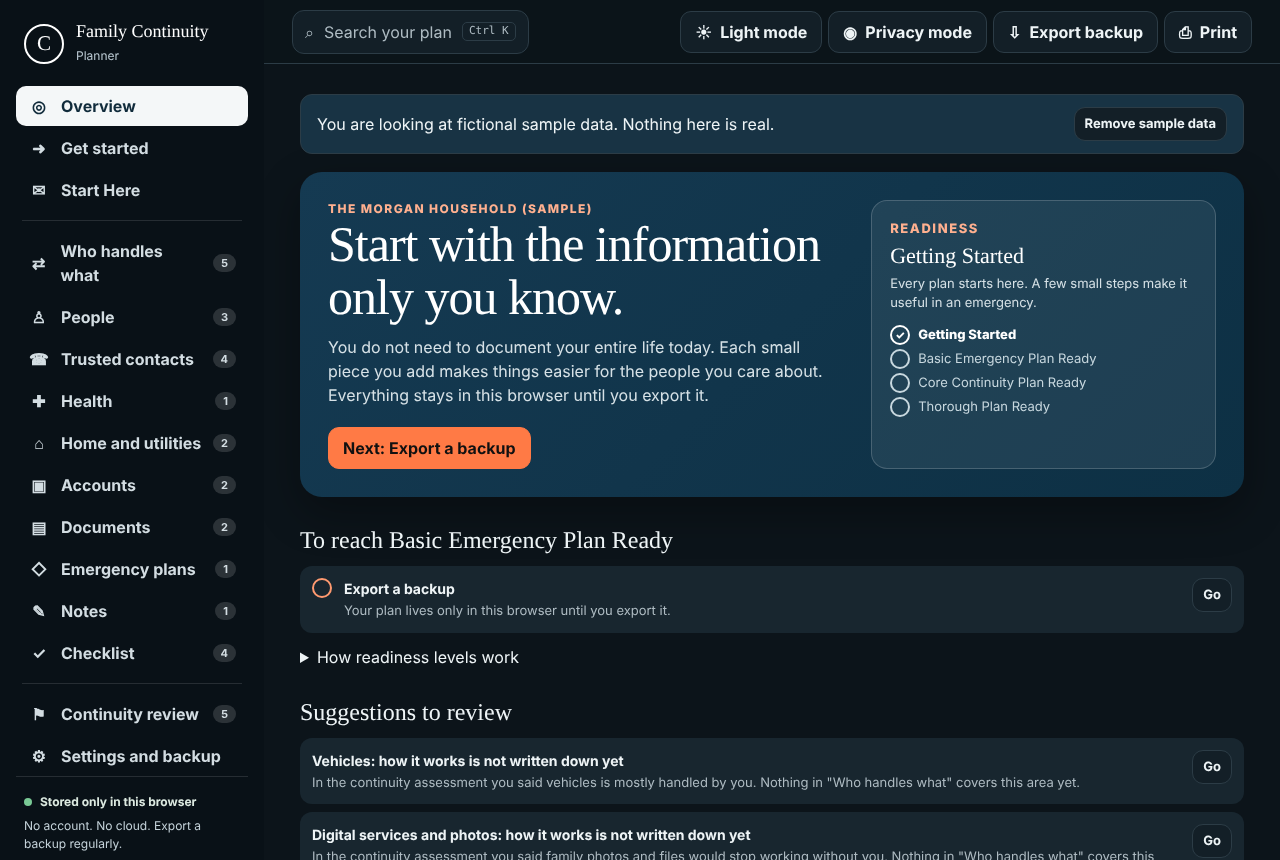
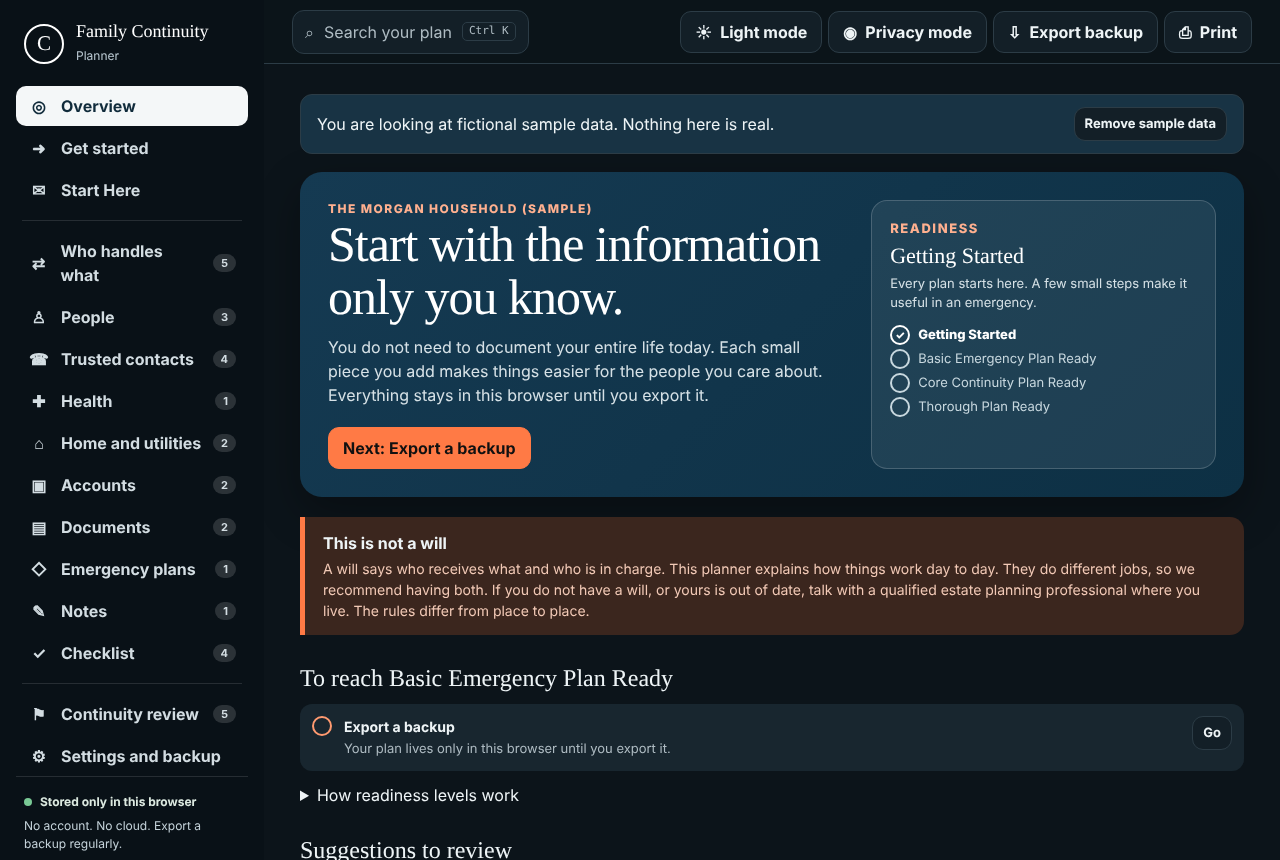
Add a clear "This is not a will" notice and recommend having one
Shown on the Overview, in Get started, in Documents, on the printed
cover, in the README, and in the release START-HERE guide. Also:
release workflow can publish directly and replaces stale drafts; the
accessibility test no longer reloads mid-test; documented a Chrome
file:// storage issue found while stress-testing.

Claude-Session: https://claude.ai/code/session_01NZDqcFxWWaqixxy1av1D4J

diff --git a/src/ui/views/getStarted.ts b/src/ui/views/getStarted.ts
@@ -7,7 +7,7 @@ import { recommend, type Recommendation } from '../../core/recommend';
 import { AREA_IDS, AREA_LABELS, SECTIONS } from '../../core/sections';
 import { h } from '../dom';
 import { getPlan, go, mutate } from '../store';
-import { button, viewHead } from './common';
+import { WILL_NOTICE, button, viewHead } from './common';
 
 const STEPS = ['Why this matters', 'Who handles what', 'What would stop', 'Where to start'] as const;
 const HANDLER_LABELS: Record<AreaHandler, string> = {
@@ -23,6 +23,7 @@ function stepWhy(): HTMLElement {
     h('p', null, h('strong', null, 'You do not need to document your entire life today. Start with the information only you know.')),
     h('p', null, 'Most estate planning focuses on what you own. This planner focuses on what you know: how the bills get paid, who fixes the furnace, where the important papers are, and the hundred small routines that keep a household running.'),
     h('p', null, 'If you were suddenly unavailable, the people you care about would have to work all of that out at the hardest possible time. A few written pages can spare them a lot of stress, confusion, and unnecessary work.'),
+    h('p', null, h('strong', null, `${WILL_NOTICE.title}. `), WILL_NOTICE.body),
     h('p', null, 'The next two steps take about five minutes. They help find where your family depends on you most, so you can start there. Every question is optional and you can change your answers later.'),
   );
 }

diff --git a/tests/e2e/backup-print-a11y.spec.ts b/tests/e2e/backup-print-a11y.spec.ts
@@ -163,10 +163,16 @@ const VIEWS = ['Overview', 'Get started', 'Start Here', 'Who handles what', 'Peo
 
 for (const theme of ['light', 'dark'] as const) {
   test(`no automatically detectable accessibility violations (${theme})`, async ({ app }) => {
-    await app.evaluate((t) => localStorage.setItem('familyContinuityPlanner.theme', t), theme);
+    // Nine full axe scans plus a dialog; allow time on slower CI machines.
+    test.setTimeout(120_000);
+    // Set the theme before the page's own scripts run, then load sample data without reloading,
+    // so no test step races Chromium's asynchronous localStorage commit.
+    await app.addInitScript((t) => localStorage.setItem('familyContinuityPlanner.theme', t), theme);
+    await app.reload();
+    expect(await app.evaluate(() => document.documentElement.dataset.theme)).toBe(theme);
     await nav(app, 'Settings and backup');
     await app.getByRole('button', { name: 'Load sample data' }).click();
-    await app.reload();
+    await expect(app.getByText('You are looking at fictional sample data')).toBeVisible();
     const results: string[] = [];
     for (const v of VIEWS) {
       await nav(app, v);

diff --git a/tests/e2e/core.spec.ts b/tests/e2e/core.spec.ts
@@ -221,3 +221,16 @@ test('sample data: load, identify, remove; erase everything', async ({ app }) =>
   await expect.poll(async () => (await storedPlan(app)).records.people.length).toBe(0);
   await expect(app.getByText('All plan data was erased from this browser.')).toBeVisible();
 });
+
+test('the "not a will" notice appears on the overview, in Get started, in Documents, and in print', async ({ app }) => {
+  const notice = app.getByRole('complementary', { name: 'This is not a will' });
+  await expect(notice).toBeVisible();
+  await expect(notice).toContainText('we recommend having both');
+  await nav(app, 'Get started');
+  await expect(app.getByText(/This is not a will\./)).toBeVisible();
+  await nav(app, 'Documents');
+  await expect(app.locator('.callout').filter({ hasText: 'Start with your will' })).toContainText('we recommend getting one');
+  await app.getByRole('button', { name: 'Print' }).first().click();
+  await app.getByRole('dialog').getByRole('button', { name: 'Print' }).click();
+  await expect.poll(() => app.locator('#print-packet').evaluate((n) => n.textContent ?? '')).toContain('This is not a will.');
+});

diff --git a/src/ui/views/common.ts b/src/ui/views/common.ts
@@ -14,6 +14,19 @@ export function viewHead(opts: { eyebrow: string; title: string; description?: C
   );
 }
 
+export const WILL_NOTICE = {
+  title: 'This is not a will',
+  body: 'A will says who receives what and who is in charge. This planner explains how things work day to day. They do different jobs, so we recommend having both. If you do not have a will, or yours is out of date, talk with a qualified estate planning professional where you live. The rules differ from place to place.',
+};
+
+/** Calm, visible reminder that the planner works alongside a will and does not replace one. */
+export function willNotice(): HTMLElement {
+  return h('aside', { class: 'callout will-notice', attrs: { 'aria-labelledby': 'will-notice-h' } },
+    h('strong', { attrs: { id: 'will-notice-h' } }, WILL_NOTICE.title),
+    h('p', null, WILL_NOTICE.body),
+  );
+}
+
 export function goTarget(t: Target): void {
   if (t.view === 'section') {
     go({ name: 'section', section: t.section });

diff --git a/src/ui/print.ts b/src/ui/print.ts
@@ -70,7 +70,7 @@ export function buildPacket(plan: Plan, opts: PacketOptions): HTMLElement {
         h('div', { class: 'pk-note' },
           h('p', null, h('strong', null, 'Check that this is current. '), 'Details change. If something looks out of date, confirm it with a trusted contact before acting on it.'),
           h('p', null, h('strong', null, 'Keep this private. '), opts.includePrivate ? 'This copy includes private details. Store it somewhere secure and shred old copies.' : 'Private details were left out of this copy. Store it somewhere secure and shred old copies.'),
-          h('p', null, 'This is guidance, not a will or legal document.'),
+          h('p', null, h('strong', null, 'This is not a will. '), 'It is practical guidance, not a legal document. If there is a will or other legal paperwork, it takes priority over anything written here.'),
         ),
       ));
     } else if (part === 'start-here') {

diff --git a/src/core/sections.ts b/src/core/sections.ts
@@ -207,6 +207,10 @@ export const SECTIONS: Record<SectionId, SectionDef> = {
     titleField: 'name',
     subtitleField: 'category',
     filterField: 'category',
+    callout: {
+      title: 'Start with your will',
+      body: 'Record where your will is kept and who prepared it, along with any power of attorney or healthcare directive. This planner does not replace those documents. If you do not have a will yet, we recommend getting one from a qualified professional where you live.',
+    },
     fields: [
       { key: 'name', label: 'Document', required: true, wide: true },
       { key: 'category', label: 'Category', type: 'select', options: ['Identity', 'Legal', 'Financial', 'Insurance', 'Property', 'Medical', 'Other'] },

diff --git a/src/ui/views/dashboard.ts b/src/ui/views/dashboard.ts
@@ -4,7 +4,7 @@ import { SECTIONS, SECTION_IDS } from '../../core/sections';
 import { h } from '../dom';
 import { exportBackup } from '../backupFlow';
 import { getPlan, go } from '../store';
-import { button, goTarget } from './common';
+import { button, goTarget, willNotice } from './common';
 
 export function dashboardView(): HTMLElement {
   const plan = getPlan();
@@ -79,5 +79,7 @@ export function dashboardView(): HTMLElement {
     )
     : null;
 
-  return h('div', null, hero, nextList, findings, map);
+  const will = willNotice();
+  will.style.setProperty('margin-top', '20px');
+  return h('div', null, hero, will, nextList, findings, map);
 }

diff --git a/playwright.config.ts b/playwright.config.ts
@@ -10,6 +10,8 @@ export default defineConfig({
   testDir: 'tests/e2e',
   fullyParallel: true,
   forbidOnly: !!process.env.CI,
+  // One retry in CI. Chromium occasionally loses a localStorage write made just before
+  // reloading a page opened from disk (file://); see README Limitations and IMPORT_ISSUES.md.
   retries: process.env.CI ? 1 : 0,
   reporter: process.env.CI ? [['list'], ['html', { open: 'never' }]] : 'list',
   use: {

diff --git a/README.md b/README.md
@@ -19,6 +19,8 @@ When someone who quietly runs a household dies, becomes seriously ill, or simply
 
 A will says who gets what. This planner helps write down **how things work**, so the family can keep functioning.
 
+> **This is not a will.** Family Continuity Planner works alongside a will; it does not replace one. If you do not have a will, or yours is out of date, we recommend having one prepared with a qualified estate planning professional where you live. Laws differ from place to place.
+
 ## Who it is for
 
 Anyone who wants to make things easier for the people they would leave behind: single people, couples, parents, people without children, caregivers, adult children helping parents, blended families, pet owners, homeowners and renters, small business owners, and anyone whose technology or paperwork only they understand. It does not assume a family structure, country, religion, or financial situation.
@@ -85,7 +87,7 @@ Click **Print**. Choose whether to include private details (off by default), the
 
 ## Frequently asked questions
 
-**Is this a will?** No. It is an organizational and knowledge-transfer tool. Legal documents take priority over anything in it.
+**Is this a will?** No. It is an organizational and knowledge-transfer tool, and a will or other legal documents take priority over anything in it. We recommend having both: a will for who receives what and who is in charge, and this planner for how everything actually works. A qualified professional where you live can help with the will, and you can record where it is kept in the Documents section.
 
 **Should I store passwords in it?** No. Record which password manager you use, how a trusted person can get emergency access, and where recovery documents are kept. The review page flags text that looks like a password or card number.
 
@@ -104,6 +106,7 @@ Click **Print**. Choose whether to include private details (off by default), the
 - Data lives in one browser on one device. There is no sync, by design.
 - Nothing is encrypted, at rest or in backups.
 - Clearing browser data for the file or site erases the plan. Keep backups.
+- In automated tests, Chrome occasionally (about 2 to 7 percent of tries, on a heavily loaded test machine) failed to keep a save made just before the page was reloaded, but only when the app was opened as a file from disk, never over the web. This has not been confirmed on an ordinary desktop yet and is being investigated. Until then: pause a moment after saving before closing or reloading, and export backups regularly.
 - Readiness levels and review suggestions are simple, documented rules. They cannot know what is missing from your life; they never mean a plan is "complete."
 - Printing is designed for US Letter. A4 printing works but is not specifically tuned.
 - Tested in Chromium-based browsers. Firefox and Safari are expected to work but are not yet covered by automated tests.
@@ -147,4 +150,4 @@ The software is released under the [MIT License](LICENSE). The license covers th
 
 ## Disclaimer
 
-Family Continuity Planner is an organizational and knowledge-transfer tool. It is not a will and does not replace estate planning. It is not legal, financial, or medical advice, and it does not replace advice from an attorney, accountant, financial professional, healthcare professional, or other qualified professional. It is provided as is, without warranty.
+Family Continuity Planner is an organizational and knowledge-transfer tool. It is not a will and does not replace estate planning. We recommend using it alongside a will and any other estate documents that fit your situation, prepared with a qualified professional where you live. It is not legal, financial, or medical advice, and it does not replace advice from an attorney, accountant, financial professional, healthcare professional, or other qualified professional. It is provided as is, without warranty.

diff --git a/docs/releasing.md b/docs/releasing.md
@@ -6,7 +6,7 @@
 4. Run `npm run check` and `npm run release` locally. Open `release/Family-Continuity-Planner-vX.Y.Z.html` from disk and try: sample data, export, restore, print preview.
 5. Work through [PUBLIC_RELEASE_CHECKLIST.md](../PUBLIC_RELEASE_CHECKLIST.md) for the first public release, and its "every release" section after that.
 6. Commit and push to `main`.
-7. Open the **Actions** tab, choose **Release**, and click **Run workflow** on `main` (or push a matching tag such as `vX.Y.Z`). The workflow runs every check, builds the files, and creates a **draft** GitHub Release with the `.html`, `.zip`, and `SHA256SUMS.txt`. The tag is created when the draft is published.
+7. Open the **Actions** tab, choose **Release**, and click **Run workflow** on `main` (or push a matching tag such as `vX.Y.Z`). The workflow runs every check, builds the files, and creates a **draft** GitHub Release with the `.html`, `.zip`, and `SHA256SUMS.txt`. The tag is created when the draft is published. Tick **Publish immediately** to skip the draft. Re-running for the same version replaces any unpublished draft.
 8. Review the draft: download the zip, extract it, open the HTML, and compare checksums (`sha256sum -c SHA256SUMS.txt`, or `Get-FileHash` on Windows). Then publish.
 
 ## What users get

diff --git a/IMPORT_ISSUES.md b/IMPORT_ISSUES.md
@@ -2,6 +2,12 @@
 
 Create these after the repository is public. Each has a title, description, acceptance criteria, dependencies, and labels.
 
+## 0. Investigate lost saves in Chrome when opened from disk (file://)
+
+Automated tests showed headless Chrome occasionally losing a localStorage write made shortly before a reload, only for `file://` pages (2 to 7 percent of 120 tries per run on a heavily loaded machine; 0 of 360 over HTTP). Some losses persisted after a further reload. Reproduce on ordinary Windows, macOS, and Linux desktops with headed Chrome, Edge, and Firefox. If confirmed, evaluate IndexedDB (which flushes transactions explicitly) as the storage layer for `file://`, keeping the v2 localStorage key readable for migration.
+- **Acceptance:** written reproduction results per browser; if confirmed, a storage change with tests that write, reload, and verify hundreds of times without loss.
+- **Depends on:** none. **Labels:** bug, backup-and-restore, testing
+
 ## 1. Manual screen-reader audit
 
 Run the main workflows (guided start, add and edit a record, checklist, restore, print dialog) with NVDA on Windows and VoiceOver on macOS and iOS. Record findings as separate issues.

diff --git a/CHANGELOG.md b/CHANGELOG.md
@@ -28,6 +28,7 @@ The first open-source release. The original single-file app was recovered, audit
 - Checklist item editing; custom checklist groups are shown instead of hidden
 - Strict Content Security Policy that blocks all network access
 - Release zip with a plain-text START-HERE guide, sample backups, and checksums
+- A clear "This is not a will" notice on the Overview, in Get started, in Documents, in the printed packet, and in the README, recommending a will alongside the planner
 - Free online version at https://graybound.github.io/family-continuity-planner/, deployed automatically after all checks pass, with a notice explaining where data is stored
 
 ### Changed
